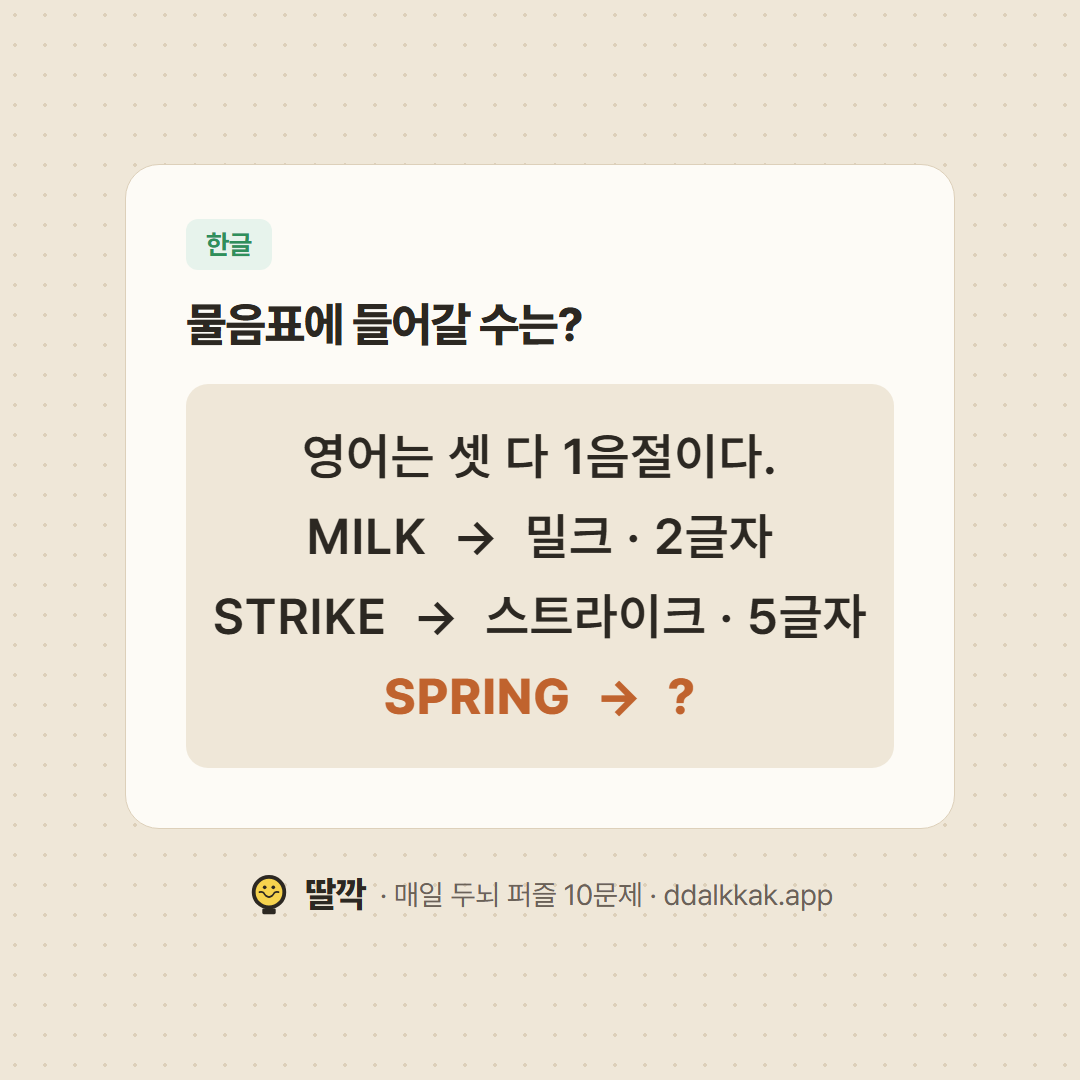
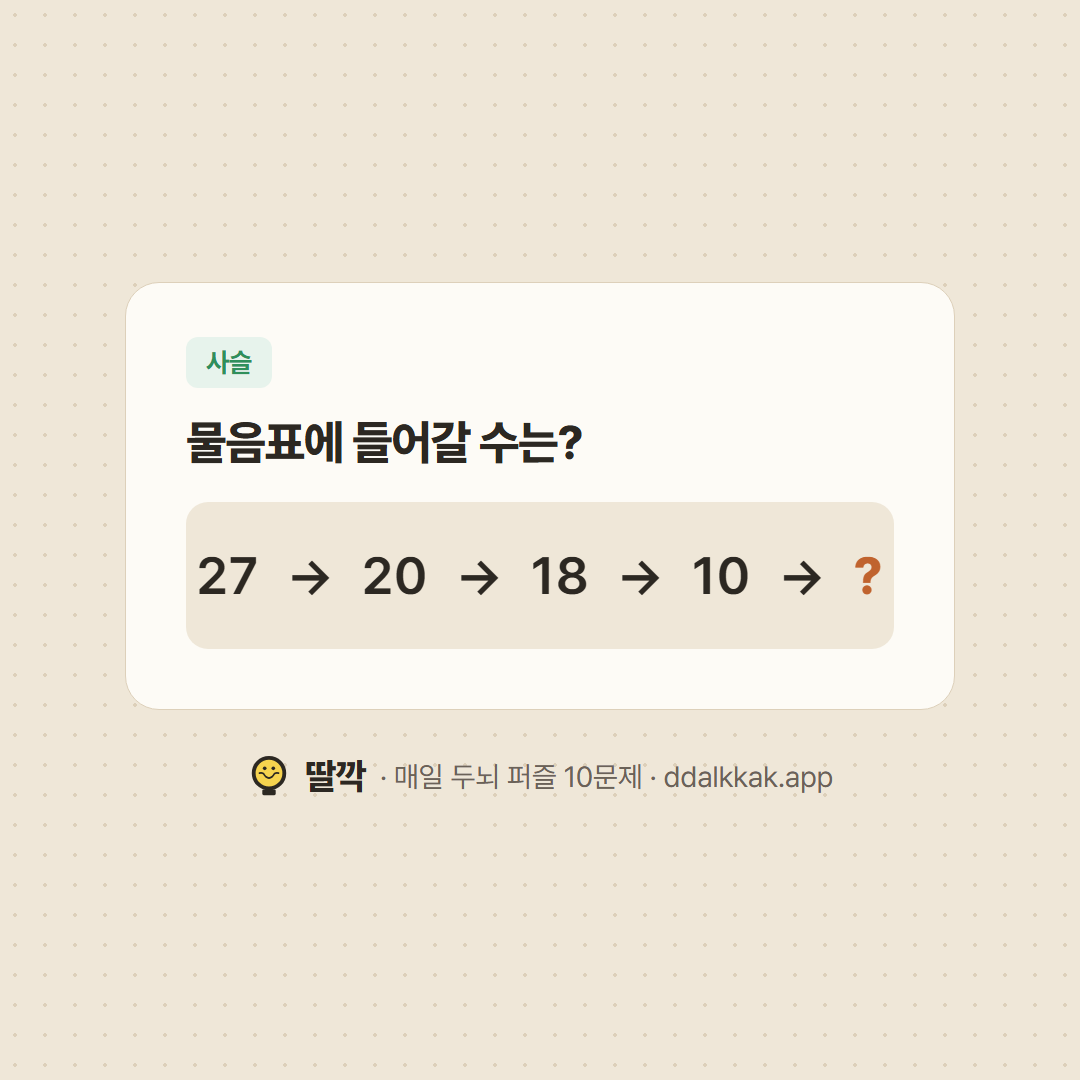
fix(promo): 스레드 9/7 카드를 rc-chain-maxdigit으로 다시 찍는다
kr-loan-stretch로 올렸던 글을 내렸다(사용자 판단). 예시에 한글 표기가 그대로 적혀
있어 발견할 것이 없던 문제다 — 문제 자체는 앞 커밋에서 고쳤고 puzzle-reviewer에
게이트 5m을 넣었다.

새 카드는 방금 만든 기준을 먼저 적용해 골랐다 — **첫 가설이 어느 줄에서 죽는지
손가락으로 짚을 수 있는가.**

    27 → 20 → 18 → 10 → ?        답 9 (각 수의 가장 큰 자릿수를 뺀다)

「−7씩 줄어든다」가 **둘째 화살표에서 죽는다**(20→18은 −2). 예시는 숫자만 있고
변환은 안 적혀 있다. 답이 지식 회상도 아니고 암산으로 된다.

떨어뜨린 둘 — jamo-count는 예시 셋 중 둘이 4이고 답도 4라 찍으면 맞는다.
disc-6은 수열이라 9/4 글에 달린 다항식 보간 지적이 또 나올 자리다.

사슬이 9/4와 겹치지만 새 기준이 「안 겹치는 것이 아니라 좋은 것을 고른다」이다.
지난 30일·앞으로 45일 안에 출제되지 않아 스포일러 걱정도 없다.

Claude-Session: https://claude.ai/code/session_01J8XmTCNTKfvGhpjeHtV2pF

Changed region(s): [[0.0917, 0.1528, 0.8861, 0.8556], [0.7944, 0.5194, 0.825, 0.55]]

diff --git a/promo/게시-기록.md b/promo/게시-기록.md
@@ -89,7 +89,7 @@
 | 2026-09-01 (화) | 사슬 「A 3 D 5 I 7 ? 9 Y」 카드(chain-alpha) + 8 5 4 9 1 7 ? 3 2 0 정답 6 공개 | — | threads.com/@imhyuniverse/post/Dcu22eKI8S1 · 댓글 3 · **전원 정답 P** (im_jh0912는 제곱수 번째 알파벳이라는 규칙까지 서술, 8/31에 이어 **재방문** / jungyd770505는 8/21 「열」 이후 **재방문** / command0987 **첫 방문**). 세 건 모두 9/2 답글 완료 — 판정 유보. · 아래 지적은 8/31 글에 달린 것이다 — im_jh0912 지적이 타당해 alpha-order-nums 지문에 「0부터 9까지 한 번씩」을 넣었다 — 그 한정이 없으면 seven과 three 사이에 six 말고 ten·thirteen·sixteen·seventeen·thirty…·sixty…·seventy…가 전부 들어간다. 해설에만 「0~9를」이라 적고 지문에는 안 적은 것이 화근. **8/26 옹알이와 같은 종류의 헐거움이다.** · chain-alpha 정답은 9/2 본문에서 공개 | — |
 | 2026-09-02 (수) | 한글 「합격 노·구·흐 / 불합격 나·거·히」 카드(vertical-vowel-club) + A 3 D 5 I 7 ? 9 Y 정답 P 공개 | — | threads.com/@imhyuniverse/post/DcxvTKjo1RE · 16:45경 게시(긁었을 때 「1분」이라 분 단위는 추정) · 후보 19개 중 vertical-vowel-club을 고른 이유: 자음 ㄴ·ㄱ·ㅎ이 합격·불합격 양쪽에 다 있어 「자음이 기준」이라는 첫 가설이 즉시 무너진다. jamo-count도 후보였으나 **「겹받침이면 4」라는 약화 규칙으로도 예시가 전부 성립**해 뺐다 — 8/26 옹알이·8/31 alpha-order-nums와 같은 종류의 헐거움이다 · 카드 물음이 「합/격할」로 잘려 4줄 구성으로 다시 뽑았다 · 댓글 1명(dalma_shian, **4회째**) — 답을 내지 않고 **규칙이 덜 조여졌다고 두 번 지적**했다. ① 천지인으로 「ㅡ 포함=합격 / ㅣ 포함=불합격」으로 읽으면 배·레도 합격일 수 있다 → **성립 안 함**(ㅐ=ㅏ+ㅣ, ㅔ=ㅓ+ㅣ라 ㅣ를 품는다). ② 예시에 합자가 하나도 없어 「정확히 ㅣ」인지 「ㅣ를 품으면」인지 못 가린다 → **타당하다**. 다만 그 구분은 배·레를 「불합격」으로 볼지 「미정」으로 볼지만 가르고, 어느 쪽도 합격이 되지는 않아 답은 안 바뀐다. · 답글 2건 9/2·9/3 완료 — 불합격 쪽에 합자 예시를 넣기로 약속했고 **9/4에 지켰다**(거절에 「새」 추가, 41ca6f5). 8/26 「바람 → 0」과 같은 처방 · 9/3은 홍보를 건너뛰어 게시 없음 | — |
 | 2026-09-04 (금) | 사슬 「7 → 49 → 97 → 130 → ?」 카드(rc-chain-sqsum) + 합격 노·구·흐 정답 보 공개 | — | threads.com/@imhyuniverse/post/Dc2goN4I0HT · 13:17경 게시 · **9/3은 게시 없음**(사이트 작업에 하루를 썼다) — 그래서 「어제」가 아니라 「그저께」로 열었다 · **dalma_shian의 9/2 지적을 본문에 넣었다** — 불합격에 합자 예시가 없어 「정확히 ㅣ」인지 「ㅣ를 품으면」인지 못 가린다는 것. 답글로만 답하면 본문만 본 사람은 모른다(8/31 옹알이 정정과 같은 이유) · 후보 17개 중 rc-chain-sqsum을 고른 이유: 첫 줄 7→49가 「제곱」으로 읽히는데 49²=2401이라 둘째 줄에서 죽는다. 자릿수 제곱합이다 · **금요일이라 정답 공개는 월요일** · 댓글 2건 모두 dalma_shian(**5회째**) — ① 답 10과 규칙(자릿수 제곱합)을 정확히 적음 ② **다항식 보간 지적** 「네 점을 지나는 3차식을 세우면 답을 195라고 우겨도 할 말이 없다. 문제들이 재미는 있는데 허점이 많다」 · **원리는 맞고 예는 틀렸다** — 적어 준 f(x)=-1/3x³+3x²+118/3x-35는 f(2)=53·f(3)=101·f(4)=149로 첫 점만 맞는다. 네 점을 실제로 지나는 3차식은 -7/2x³+24x²-11/2x-8이고 다섯째는 **127**이다 · 다만 「유한 수열은 다항식으로 늘 다른 답이 나온다」는 참이고, **이건 이 문제만의 흠이 아니라 장르 전체의 성질**이다 — ruleAttack.ts가 다항식 보간을 경쟁 가설로 안 세우는 이유를 어제 주석에 적어 뒀다. 사슬은 화살표로 「앞에서 다음」을 묻고 매 단계가 스스로 검산되지만, 4점을 지나는 3차식은 자유도가 0이라 맞춘 것이지 찾아낸 것이 아니다 · 답글 1건 완료 — 판정 유보 | — |
-| 2026-09-07 (월) | 한글 「MILK → 밀크 2글자 / STRIKE → 스트라이크 5글자」 카드(kr-loan-stretch) + 사슬 7→49→97→130 정답 10 공개 — threads.com/@imhyuniverse/post/Dc-nL4lI3Dt | — | **본문에서 댓글 반응 문단을 뺐다** — 다항식 보간 지적에 대한 해명을 본문에 쓰려 했는데 사용자가 「이런 말은 댓글에만 하면 된다」며 지웠다. 형식 문서도 그렇게 고쳤다. | — |
+| 2026-09-07 (월) | 사슬 「27 → 20 → 18 → 10 → ?」 카드(rc-chain-maxdigit) + 사슬 7→49→97→130 정답 10 공개 | — | **첫 게시는 내렸다** — kr-loan-stretch(MILK→밀크 2글자)로 올렸다가 사용자가 「문제 퀄리티가 너무 떨어진다」고 해 삭제하고 다시 올렸다. 예시에 한글 표기가 적혀 있어 발견할 게 없던 문제였다. 문제는 고쳤고 puzzle-reviewer에 게이트 5m(발견 여지)을 넣었다. 본문에서 댓글 반응 문단도 뺐다 — 「이런 말은 댓글에만」. | — |
 
 규칙: **어제 문제의 정답을 오늘 글 앞에 공개**하고 새 문제를 낸다.
 
